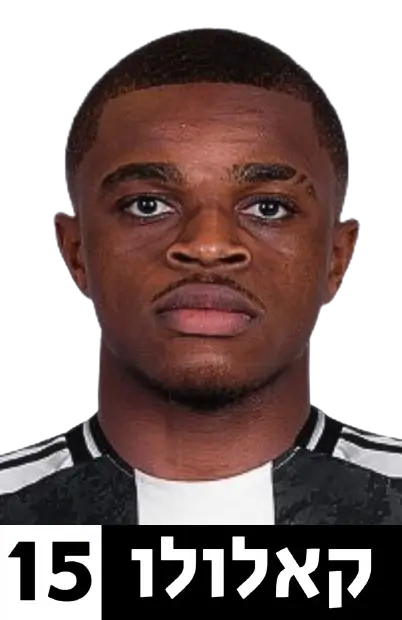
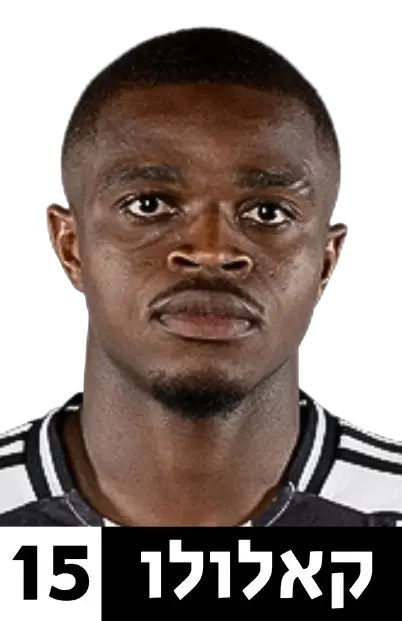
added more photos and removed background loaders

diff --git a/juvSoccerLayout/scripts/data/playerInfos.js b/juvSoccerLayout/scripts/data/playerInfos.js
@@ -3,60 +3,72 @@ const playerInfos = {
     playerImage: 'bremer'
   },
   '2': {
-    playerImage: 'cabal'
+    playerImage: 'gatti'
   },
   '3': {
-    playerImage: 'cambiaso'
+    playerImage: 'locatelli'
   },
   '4': {
     playerImage: 'danilo'
   },
   '5': {
-    playerImage: 'dluiz'
+    playerImage: 'vlahovic'
   },
   '6': {
-    playerImage: 'fagioli'
+    playerImage: 'yildiz'
   },
   '7': {
-    playerImage: 'gatti'
+    playerImage: 'kostic'
   },
   '8': {
-    playerImage: 'locatelli'
-  },
-  '9': {
-    playerImage: 'mckennie'
-  },
-  '10': {
     playerImage: 'milik'
   },
+  '9': {
+    playerImage: 'kalulu'
+  },
+  '10': {
+    playerImage: 'mckennie'
+  },
   '11': {
-    playerImage: 'savona'
+    playerImage: 'arthur'
   },
   '12': {
     playerImage: 'thuram'
   },
   '13': {
-    playerImage: 'vlahovic'
+    playerImage: 'fagioli'
   },
   '14': {
     playerImage: 'weah'
   },
   '15': {
-    playerImage: 'yildiz'
+    playerImage: 'dluiz'
   },
   '16': {
-    playerImage: 'kalulu'
+    playerImage: 'cambiaso'
   },
   '17': {
-    playerImage: 'mbangula'
+    playerImage: 'cabal'
   },
   '18': {
-    playerImage: 'pinsoglio'
+    playerImage: 'djalo'
   },
   '19': {
-    playerImage: 'perin'
+    playerImage: 'savona'
   },
   '20': {
+    playerImage: 'rouhi'
+  },
+  '21': {
+    playerImage: 'mbangula'
+  },
+  '22': {
+    playerImage: 'perin'
+  },
+  '23': {
+    playerImage: 'pinsoglio'
+  },
+  '24': {
     playerImage: 'digregorio'
   }
 }

diff --git a/juvSoccerLayout/scripts/load-backgrounds.js b/juvSoccerLayout/scripts/load-backgrounds.js
@@ -25,11 +25,6 @@ backgroundNames.forEach(background => {
       </p>
     </div>
   `;
-
-  const imageLoad = document.createElement('img');
-  imageLoad.setAttribute('src', `./images/backgrounds/${background}.webp`);
-  document.body.appendChild(imageLoad);
-  imageLoad.classList.add('background-loader');
 });
 backgroundChoices.innerHTML = html;
 

diff --git a/juvSoccerLayout/styles/photo.css b/juvSoccerLayout/styles/photo.css
@@ -4,7 +4,7 @@
   /* border: 1px solid black; */
   box-shadow: 5px 5px 0;
   box-shadow: 3px 3px 0 0 rgba(0, 0, 0, 0.5);
-
+  
   display: grid;
   justify-items: center;
   column-gap: 30px;

diff --git a/juvSoccerLayout/styles/change-background.css b/juvSoccerLayout/styles/change-background.css
@@ -96,11 +96,3 @@
   width: 100px;
   text-align: center;
 }
-
-.background-loader {
-  width: 50px;
-  position: absolute;
-  bottom: 0;
-  left: 0;
-  transform: translate(-70%, 70%);
-}
